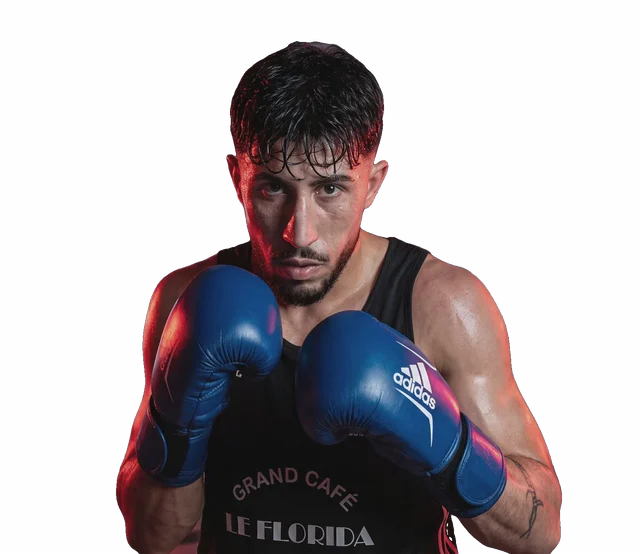
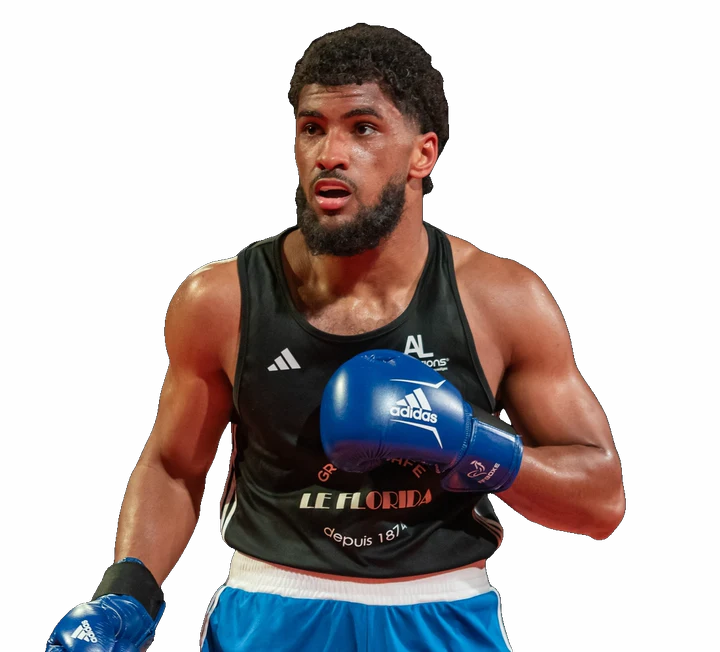
Trophy 20 : nouveau boxeur du pass, coin bleu sur le ring du club, photo de famille dans les rounds
- Pass combattant : boxeur amateur elite detoure (gants bleus), dans le ring de la carte
- Coin bleu pieds-poings et bandeau de galerie : sparring sur le ring du Boxing Center
- Rounds : retour de la photo du vainqueur avec son equipe
- Galerie servie en 900 et 1800 px selon l'ecran ; images inutilisees retirees

diff --git a/index.html b/index.html
@@ -137,7 +137,7 @@ html,body{overflow-x:hidden}
 </style>
 <link rel="stylesheet" href="poster.css?v=8">
 <link rel="stylesheet" href="gala.css?v=4">
-<link rel="stylesheet" href="night.css?v=9">
+<link rel="stylesheet" href="night.css?v=12">
 <link rel="icon" type="image/png" href="image/logo_boxing_center.png">
 <meta name="description" content="Boxing Trophy 20 — la coupe de gala du Boxing Center. Samedi 12 décembre 2026 dès 19h au garage Moteka, Fenouillet. Boxe anglaise et pied-poing. Place public 10 €.">
 <meta name="theme-color" content="#05060b">
@@ -347,7 +347,7 @@ html,body{overflow-x:hidden}
         </div>
       </article>
       <article class="vs-side vs-blue">
-        <img src="image/night/eu-kick-sparring-1800.webp" srcset="image/night/eu-kick-sparring-900.webp 900w, image/night/eu-kick-sparring-1800.webp 1800w" sizes="(max-width: 760px) 100vw, 55vw" alt="Sparring pieds-poings entre deux adhérents du Boxing Center, protège-tibias aux jambes, devant la cage du club" loading="lazy">
+        <img src="image/night/eu-ring-kick-1800.webp" srcset="image/night/eu-ring-kick-900.webp 900w, image/night/eu-ring-kick-1800.webp 1800w" sizes="(max-width: 760px) 100vw, 55vw" alt="Deux adhérents en sparring pieds-poings sur le ring du Boxing Center, protège-tibias aux jambes, logo du club sur le tapis" loading="lazy">
         <div class="vs-copy">
           <span class="vs-k">Discipline 02 · Coin bleu</span>
           <h3>Pieds-poings</h3>
@@ -429,17 +429,17 @@ html,body{overflow-x:hidden}
         <p class="n-lead">Débutants et intermédiaires, casque rouge contre casque bleu : les combats du Trophy, au plus près du ring. Survolez une photo, elle reprend ses couleurs.</p>
       </header>
       <div class="mosaic reveal" data-gallery>
-        <button class="g-item m-item m-w8" type="button" data-full="image/night/t-faceoff-1800.webp" data-cap="Trophy · face à face, salle comble" aria-label="Agrandir : face à face, salle comble"><img src="image/night/t-faceoff-1800.webp" alt="Casque rouge contre casque bleu, face à face sur le ring du Trophy, public autour" loading="lazy"></button>
-        <button class="g-item m-item m-w4t" type="button" data-full="image/night/t-red-guard-v-1800.webp" data-cap="Trophy · garde haute" aria-label="Agrandir : garde haute"><img src="image/night/t-red-guard-v-900.webp" alt="Boxeur amateur au casque rouge, garde haute" loading="lazy"></button>
-        <button class="g-item m-item m-blue" type="button" data-full="image/night/t-jabs-1800.webp" data-cap="Trophy · l'échange" aria-label="Agrandir : l'échange"><img src="image/night/t-jabs-900.webp" alt="Casque bleu et casque rouge échangent des directs" loading="lazy"></button>
-        <button class="g-item m-item m-blue" type="button" data-full="image/night/t-guard-blue-1800.webp" data-cap="Trophy · coin bleu" aria-label="Agrandir : coin bleu"><img src="image/night/t-guard-blue-900.webp" alt="Boxeur au casque bleu en garde, drapeaux du club derrière" loading="lazy"></button>
-        <button class="g-item m-item" type="button" data-full="image/night/t-red-close-1800.webp" data-cap="Trophy · concentration" aria-label="Agrandir : concentration"><img src="image/night/t-red-close-900.webp" alt="Gros plan d'un boxeur au casque rouge, gants devant le visage" loading="lazy"></button>
-        <button class="g-item m-item m-w6 m-blue" type="button" data-full="image/night/eu-kick-sparring-1800.webp" data-cap="Pieds-poings · sparring au club" aria-label="Agrandir : sparring au club"><img src="image/night/eu-kick-sparring-1800.webp" alt="Sparring pieds-poings entre deux adhérents, devant la cage du Boxing Center" loading="lazy"></button>
-        <button class="g-item m-item m-w6" type="button" data-full="image/night/t-throw-1800.webp" data-cap="Trophy · le direct" aria-label="Agrandir : le direct"><img src="image/night/t-throw-1800.webp" alt="Le casque rouge lance un direct vers le casque bleu" loading="lazy"></button>
-        <button class="g-item m-item m-blue" type="button" data-full="image/night/t-blue-close-1800.webp" data-cap="Trophy · regard" aria-label="Agrandir : regard"><img src="image/night/t-blue-close-900.webp" alt="Boxeur au casque bleu, regard fixé sur l'adversaire" loading="lazy"></button>
-        <button class="g-item m-item" type="button" data-full="image/night/t-block-1800.webp" data-cap="Trophy · la parade" aria-label="Agrandir : la parade"><img src="image/night/t-block-900.webp" alt="Un boxeur au casque rouge pare un direct, l'arbitre derrière" loading="lazy"></button>
-        <button class="g-item m-item m-blue" type="button" data-full="image/night/t-embrace-1800.webp" data-cap="Trophy · le respect" aria-label="Agrandir : le respect"><img src="image/night/t-embrace-900.webp" alt="Casque rouge et casque bleu s'enlacent après le combat" loading="lazy"></button>
-        <button class="g-item m-item m-w12" type="button" data-full="image/night/t-crowd-1800.webp" data-cap="Trophy · la salle autour du ring" aria-label="Agrandir : la salle autour du ring"><img src="image/night/t-crowd-1800.webp" alt="Vue large du ring du Boxing Center pendant un combat du Trophy, public tout autour" loading="lazy"></button>
+        <button class="g-item m-item m-w8" type="button" data-full="image/night/t-faceoff-1800.webp" data-cap="Trophy · face à face, salle comble" aria-label="Agrandir : face à face, salle comble"><img src="image/night/t-faceoff-900.webp" srcset="image/night/t-faceoff-900.webp 900w, image/night/t-faceoff-1800.webp 1800w" sizes="(max-width: 760px) 100vw, 60vw" alt="Casque rouge contre casque bleu, face à face sur le ring du Trophy, public autour" loading="lazy"></button>
+        <button class="g-item m-item m-w4t" type="button" data-full="image/night/t-red-guard-v-1800.webp" data-cap="Trophy · garde haute" aria-label="Agrandir : garde haute"><img src="image/night/t-red-guard-v-900.webp" srcset="image/night/t-red-guard-v-900.webp 900w, image/night/t-red-guard-v-1800.webp 1800w" sizes="(max-width: 760px) 100vw, 60vw" alt="Boxeur amateur au casque rouge, garde haute" loading="lazy"></button>
+        <button class="g-item m-item m-blue" type="button" data-full="image/night/t-jabs-1800.webp" data-cap="Trophy · l'échange" aria-label="Agrandir : l'échange"><img src="image/night/t-jabs-900.webp" srcset="image/night/t-jabs-900.webp 900w, image/night/t-jabs-1800.webp 1800w" sizes="(max-width: 760px) 100vw, 60vw" alt="Casque bleu et casque rouge échangent des directs" loading="lazy"></button>
+        <button class="g-item m-item m-blue" type="button" data-full="image/night/t-guard-blue-1800.webp" data-cap="Trophy · coin bleu" aria-label="Agrandir : coin bleu"><img src="image/night/t-guard-blue-900.webp" srcset="image/night/t-guard-blue-900.webp 900w, image/night/t-guard-blue-1800.webp 1800w" sizes="(max-width: 760px) 100vw, 60vw" alt="Boxeur au casque bleu en garde, drapeaux du club derrière" loading="lazy"></button>
+        <button class="g-item m-item" type="button" data-full="image/night/t-red-close-1800.webp" data-cap="Trophy · concentration" aria-label="Agrandir : concentration"><img src="image/night/t-red-close-900.webp" srcset="image/night/t-red-close-900.webp 900w, image/night/t-red-close-1800.webp 1800w" sizes="(max-width: 760px) 100vw, 60vw" alt="Gros plan d'un boxeur au casque rouge, gants devant le visage" loading="lazy"></button>
+        <button class="g-item m-item m-w6 m-blue" type="button" data-full="image/night/t-crowd-1800.webp" data-cap="Trophy · la salle autour du ring" aria-label="Agrandir : la salle autour du ring"><img src="image/night/t-crowd-900.webp" srcset="image/night/t-crowd-900.webp 900w, image/night/t-crowd-1800.webp 1800w" sizes="(max-width: 760px) 100vw, 60vw" alt="Vue large du ring du Boxing Center pendant un combat du Trophy, public tout autour" loading="lazy"></button>
+        <button class="g-item m-item m-w6" type="button" data-full="image/night/t-throw-1800.webp" data-cap="Trophy · le direct" aria-label="Agrandir : le direct"><img src="image/night/t-throw-900.webp" srcset="image/night/t-throw-900.webp 900w, image/night/t-throw-1800.webp 1800w" sizes="(max-width: 760px) 100vw, 60vw" alt="Le casque rouge lance un direct vers le casque bleu" loading="lazy"></button>
+        <button class="g-item m-item m-blue" type="button" data-full="image/night/t-blue-close-1800.webp" data-cap="Trophy · regard" aria-label="Agrandir : regard"><img src="image/night/t-blue-close-900.webp" srcset="image/night/t-blue-close-900.webp 900w, image/night/t-blue-close-1800.webp 1800w" sizes="(max-width: 760px) 100vw, 60vw" alt="Boxeur au casque bleu, regard fixé sur l'adversaire" loading="lazy"></button>
+        <button class="g-item m-item" type="button" data-full="image/night/t-block-1800.webp" data-cap="Trophy · la parade" aria-label="Agrandir : la parade"><img src="image/night/t-block-900.webp" srcset="image/night/t-block-900.webp 900w, image/night/t-block-1800.webp 1800w" sizes="(max-width: 760px) 100vw, 60vw" alt="Un boxeur au casque rouge pare un direct, l'arbitre derrière" loading="lazy"></button>
+        <button class="g-item m-item m-blue" type="button" data-full="image/night/t-embrace-1800.webp" data-cap="Trophy · le respect" aria-label="Agrandir : le respect"><img src="image/night/t-embrace-900.webp" srcset="image/night/t-embrace-900.webp 900w, image/night/t-embrace-1800.webp 1800w" sizes="(max-width: 760px) 100vw, 60vw" alt="Casque rouge et casque bleu s'enlacent après le combat" loading="lazy"></button>
+        <button class="g-item m-item m-w12 m-blue" type="button" data-full="image/night/eu-ring-kick-1800.webp" data-cap="Pieds-poings · sparring sur le ring du club" aria-label="Agrandir : sparring sur le ring du club"><img src="image/night/eu-ring-kick-900.webp" srcset="image/night/eu-ring-kick-900.webp 900w, image/night/eu-ring-kick-1800.webp 1800w" sizes="(max-width: 760px) 100vw, 60vw" alt="Deux adhérents en sparring pieds-poings sur le ring du Boxing Center, logo du club sur le tapis" loading="lazy"></button>
       </div>
       <p class="n-credit">Combats amateurs du Trophy au Boxing Center · Sparring pieds-poings : B.M.Photographie</p>
     </div>
@@ -454,8 +454,8 @@ html,body{overflow-x:hidden}
       </header>
       <div class="rounds-wrap">
         <figure class="rounds-photo reveal-left">
-          <img src="image/night/t-hand-raised-900.webp" srcset="image/night/t-hand-raised-900.webp 900w, image/night/t-hand-raised-1800.webp 1800w" sizes="(max-width: 960px) 100vw, 45vw" alt="Au Trophy, l'arbitre lève le bras du vainqueur, qui serre le poing" loading="lazy">
-          <figcaption>Le verdict : l'arbitre lève ton bras.</figcaption>
+          <img src="image/night/victory-team-900.webp" srcset="image/night/victory-team-900.webp 900w, image/night/victory-team-1800.webp 1800w" sizes="(max-width: 960px) 100vw, 45vw" alt="Le vainqueur fête sa victoire sur le ring avec son équipe et ses proches" loading="lazy">
+          <figcaption>Après le combat, ton équipe monte sur le ring.</figcaption>
         </figure>
         <ol class="rounds">
           <li><span class="rd"><small>Round</small><b>1</b></span><h3>Ring professionnel</h3><p>Un vrai ring au milieu de l'atelier, sous les projecteurs.</p></li>
@@ -575,7 +575,7 @@ html,body{overflow-x:hidden}
             <div class="pass-face pass-front">
               <div class="pf-bg"></div>
               <div class="pf-window"><span class="pf-window-light"></span><span class="pf-ring" aria-hidden="true"><i></i><i></i><i></i><b></b></span></div>
-              <div class="pf-fighter"><img src="image/night/pass-fighter.webp" alt="" width="640" height="554" decoding="async" fetchpriority="low"></div>
+              <div class="pf-fighter"><img src="image/night/pass-fighter.webp?v=2" alt="" width="720" height="652" decoding="async" fetchpriority="low"></div>
               <div class="pf-top"><span class="pf-k"><i></i>Fight pass</span><img class="pf-bc" src="image/night/logo-bc.webp" alt="" width="330" height="160" loading="lazy"></div>
               <div class="pf-title"><span class="pf-chrome">Trophy</span><span class="pf-20">20</span></div>
               <span class="pf-seal"><b>20</b></span>

diff --git a/night.css b/night.css
@@ -292,7 +292,7 @@ body { font-family: Barlow, Geist, system-ui, sans-serif; }
 .vs-blue { right: 0; clip-path: polygon(11.1% 0, 100% 0, 100% 100%, 0 100%); transform: translateX(calc((1 - var(--vp)) * 38%)); }
 .vs-side img { position: absolute; inset: 0; width: 100%; height: 100%; object-fit: cover; z-index: -2; transform: scale(calc(1.16 - var(--vp) * .08)); transition: transform 1.2s var(--n-ease); }
 .vs-red img { object-position: 72% 30%; }
-.vs-blue img { object-position: 20% 45%; }
+.vs-blue img { object-position: 52% 42%; }
 .vs-side::after { content: ""; position: absolute; inset: 0; z-index: -1; }
 .vs-red::after { background: linear-gradient(100deg, rgba(160, 6, 18, .78), rgba(160, 6, 18, .2) 55%, rgba(160, 6, 18, .05)), linear-gradient(0deg, rgba(5, 6, 11, .96) 4%, rgba(5, 6, 11, 0) 52%); }
 .vs-blue::after { background: linear-gradient(260deg, rgba(10, 50, 170, .8), rgba(10, 50, 170, .2) 55%, rgba(10, 50, 170, .05)), linear-gradient(0deg, rgba(5, 6, 11, .96) 4%, rgba(5, 6, 11, 0) 52%); }
@@ -380,13 +380,13 @@ body { font-family: Barlow, Geist, system-ui, sans-serif; }
 .m-w4t { grid-column: span 4; grid-row: span 4; }
 .m-w6 { grid-column: span 6; grid-row: span 3; }
 .m-w12 { grid-column: span 12; grid-row: span 3; }
-.m-w12 img { object-position: 50% 40%; }
+.m-w12 img { object-position: 50% 46%; }
 .n-credit { margin: 16px 0 0; font: 600 12px/1.5 "Barlow Condensed", sans-serif; letter-spacing: .18em; text-transform: uppercase; color: var(--n-ink-3); }
 
 /* ═══════════ 06 · Quatre rounds ═══════════ */
 .rounds-wrap { display: grid; grid-template-columns: 1fr 1.05fr; gap: clamp(30px, 6vw, 90px); align-items: start; }
 .rounds-photo { position: sticky; top: 96px; margin: 0; aspect-ratio: 4 / 5; overflow: hidden; clip-path: polygon(0 0, 100% 0, 100% 90%, 86% 100%, 0 100%); }
-.rounds-photo img { width: 100%; height: 100%; object-fit: cover; object-position: 58% 40%; display: block; }
+.rounds-photo img { width: 100%; height: 100%; object-fit: cover; object-position: 40% 50%; display: block; }
 .rounds-photo::after { content: ""; position: absolute; inset: 0; background: linear-gradient(180deg, transparent 50%, rgba(5, 6, 11, .9)), linear-gradient(90deg, rgba(255, 42, 54, .25), transparent 40%, transparent 60%, rgba(58, 134, 255, .25)); }
 .rounds-photo figcaption { position: absolute; left: 22px; right: 22px; bottom: 22px; z-index: 1; font: 700 italic 14px/1.3 "Barlow Condensed", sans-serif; letter-spacing: .16em; text-transform: uppercase; color: #fff; }
 .rounds { list-style: none; margin: 0; padding: 0; }
@@ -634,7 +634,7 @@ body { font-family: Barlow, Geist, system-ui, sans-serif; }
 /* le combattant : découpé au cadre sur les côtés et en bas, mais la tête dépasse, et il flotte 26 px devant la carte */
 .pf-fighter { position: absolute; z-index: 3; left: 7%; right: 7%; top: 10.5%; height: 49%; pointer-events: none;
   clip-path: inset(-40% 0 0 0 round 0 0 12px 12px); transform: translateZ(30px); }
-.pf-fighter img { position: absolute; left: 50%; bottom: 0; width: 158%; height: auto; transform: translateX(-50%); filter: drop-shadow(0 12px 18px rgba(0, 0, 0, .6)) contrast(1.06) saturate(1.08); }
+.pf-fighter img { position: absolute; left: 50%; bottom: 0; width: 118%; height: auto; transform: translateX(-50%); filter: drop-shadow(0 12px 18px rgba(0, 0, 0, .6)) contrast(1.06) saturate(1.08); }
 
 .pf-top { position: absolute; z-index: 4; top: 3.6%; left: 7%; right: 7%; display: flex; justify-content: space-between; align-items: center; transform: translateZ(8px); }
 .pf-k { display: inline-flex; align-items: center; gap: 7px; font: 800 italic 11px/1 "Barlow Condensed", sans-serif; letter-spacing: .26em; text-transform: uppercase; color: #fff; }
